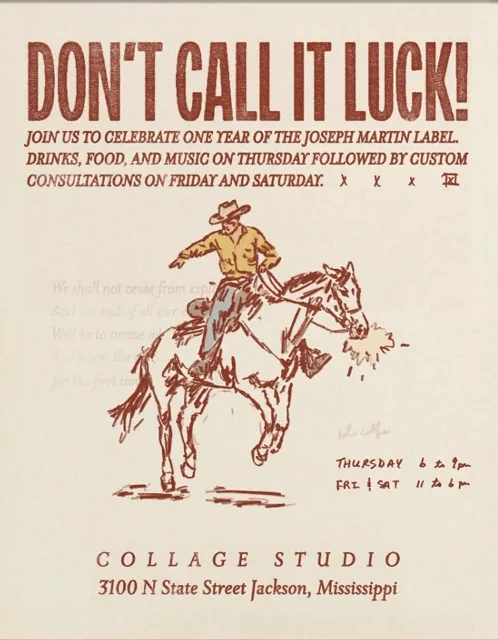
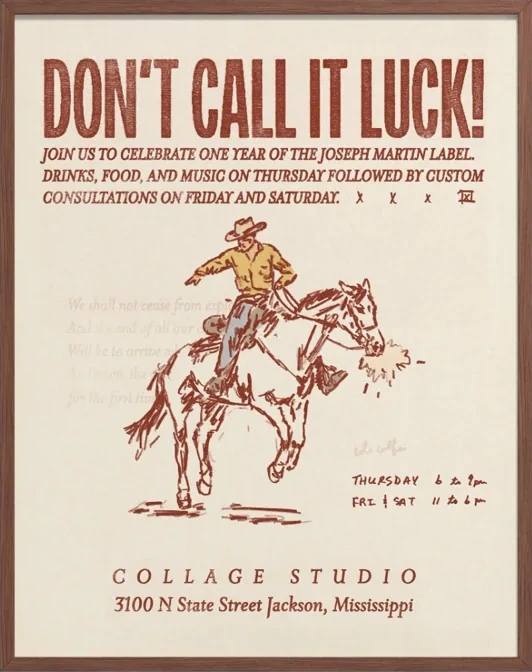
Index plates: show the Collage Studio posters in their frames
In the only source photographs, the frame covers the posters' own
margins: the top line of type starts inside the frame's shadow and the
bottom line ends 2-3 px above it, so any crop to the bare sheet leaves
the printing flush against the edge. Both posters are now cut exactly at
the frame's outer edge (an even 14-15 px on every side), with no wall
or shadow, so the frame gives the type its margin.

Claude-Session: https://claude.ai/code/session_01GZLWUqV4fTwGcLV6gF4Gcj

diff --git a/site/index/index.html b/site/index/index.html
@@ -855,8 +855,8 @@ body.work-index{height:100dvh;max-height:100dvh}
       <div class="panel-top"><h2 class="panel-title">Joseph Martin</h2><button class="panel-close" type="button" aria-label="Close Joseph Martin">CLOSE ×</button></div>
       <div class="series" data-series="joseph" aria-label="Joseph Martin artwork">
         <figure class="archive-plate photo-plate" data-caption="POSTER / DOUBLE DECKER ARTS FESTIVAL, OXFORD"><img loading="lazy" src="../assets/jm3.png" width="1339" height="1841" alt="Joseph Martin Hatmaker Double Decker Arts Festival poster in purple with cowboy on horseback" onerror="this.parentElement.classList.add('is-pending');this.hidden=true"></figure>
-        <figure class="archive-plate photo-plate" data-caption="EVENT POSTER / COLLAGE STUDIO, JACKSON" hidden><img loading="lazy" src="../assets/joseph-martin-survives.webp" width="498" height="640" alt="Martin Survives event poster, western illustration in red" onerror="this.parentElement.classList.add('is-pending');this.hidden=true"></figure>
-        <figure class="archive-plate photo-plate" data-caption="EVENT POSTER / COLLAGE STUDIO, JACKSON" hidden><img loading="lazy" src="../assets/joseph-martin-luck.webp" width="498" height="640" alt="Don't Call It Luck event poster, cowboy illustration in red" onerror="this.parentElement.classList.add('is-pending');this.hidden=true"></figure>
+        <figure class="archive-plate photo-plate" data-caption="EVENT POSTER / COLLAGE STUDIO, JACKSON" hidden><img loading="lazy" src="../assets/joseph-martin-survives.webp" width="532" height="672" alt="Framed Martin Survives event poster, western illustration in red" onerror="this.parentElement.classList.add('is-pending');this.hidden=true"></figure>
+        <figure class="archive-plate photo-plate" data-caption="EVENT POSTER / COLLAGE STUDIO, JACKSON" hidden><img loading="lazy" src="../assets/joseph-martin-luck.webp" width="532" height="672" alt="Framed Don't Call It Luck event poster, cowboy illustration in red" onerror="this.parentElement.classList.add('is-pending');this.hidden=true"></figure>
         <figure class="archive-plate photo-plate" data-caption="ILLUSTRATION" hidden><img loading="lazy" src="../assets/cg.png" width="19872" height="19872" alt="Red ink illustration of a cowboy in a wide-brimmed hat, for Joseph Martin" onerror="this.parentElement.classList.add('is-pending');this.hidden=true"></figure>
       </div>
       <div class="series-nav" data-pair-nav="joseph" role="group" aria-label="Browse Joseph Martin artwork">
